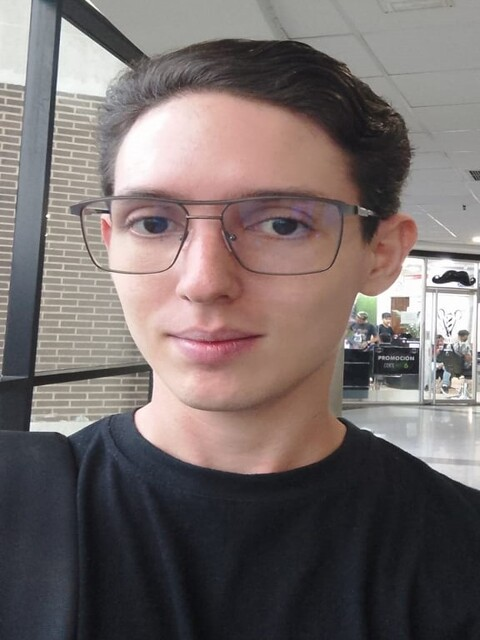
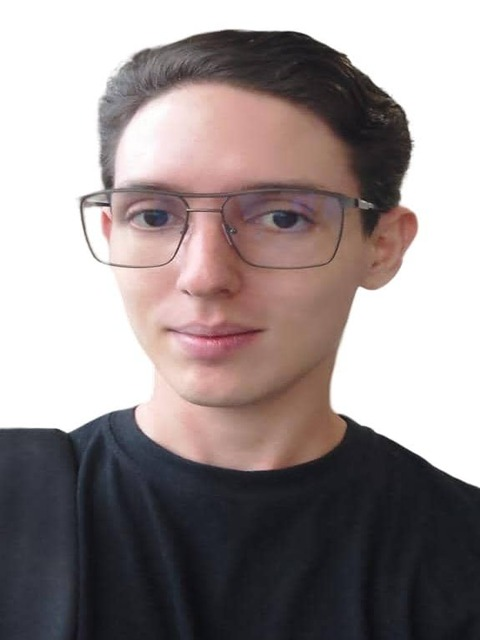
mas cambios

diff --git a/index.html b/index.html
@@ -9,7 +9,7 @@
     <meta name="description" content="Technology IT Solutions HTML Template">
     <!-- Favicon -->
     <link rel="icon" href="assets/images/favicon.webp">
-
+    
     <!-- CSS
      
         ============================================ -->
@@ -81,6 +81,11 @@
                             </div>
                             <!-- navigation menu -->
                             <div class="header__navigation menu-style-four preview-menu d-none d-xl-block">
+                                <div id="flags" class="flags">
+                                    <div class="flags__item">
+                                        <img src="" alt="">
+                                    </div>
+                                </div>
                                 <nav class="navigation-menu navigation-menu--onepage navigation-menu-right">
                                     <ul>
                                         <li><a style="font-family: 'anton', sans-serif; top: ; color: black; font-size: 20px;"
@@ -649,7 +654,7 @@
                             <div class="col-lg-2 col-md-6">
                                 <div class="team-member">
                                     <div class="team-image-wrapper"> <img
-                                            src="assets/images/team/perfil-hombre-vacio.jpg" alt="Guillermo Berbesi"
+                                            src="assets/images/team/guillermo.jpg" alt="Guillermo Berbesi"
                                             class="img-fluid team-img">
                                         <div class="team-overlay">
                                             <h5
